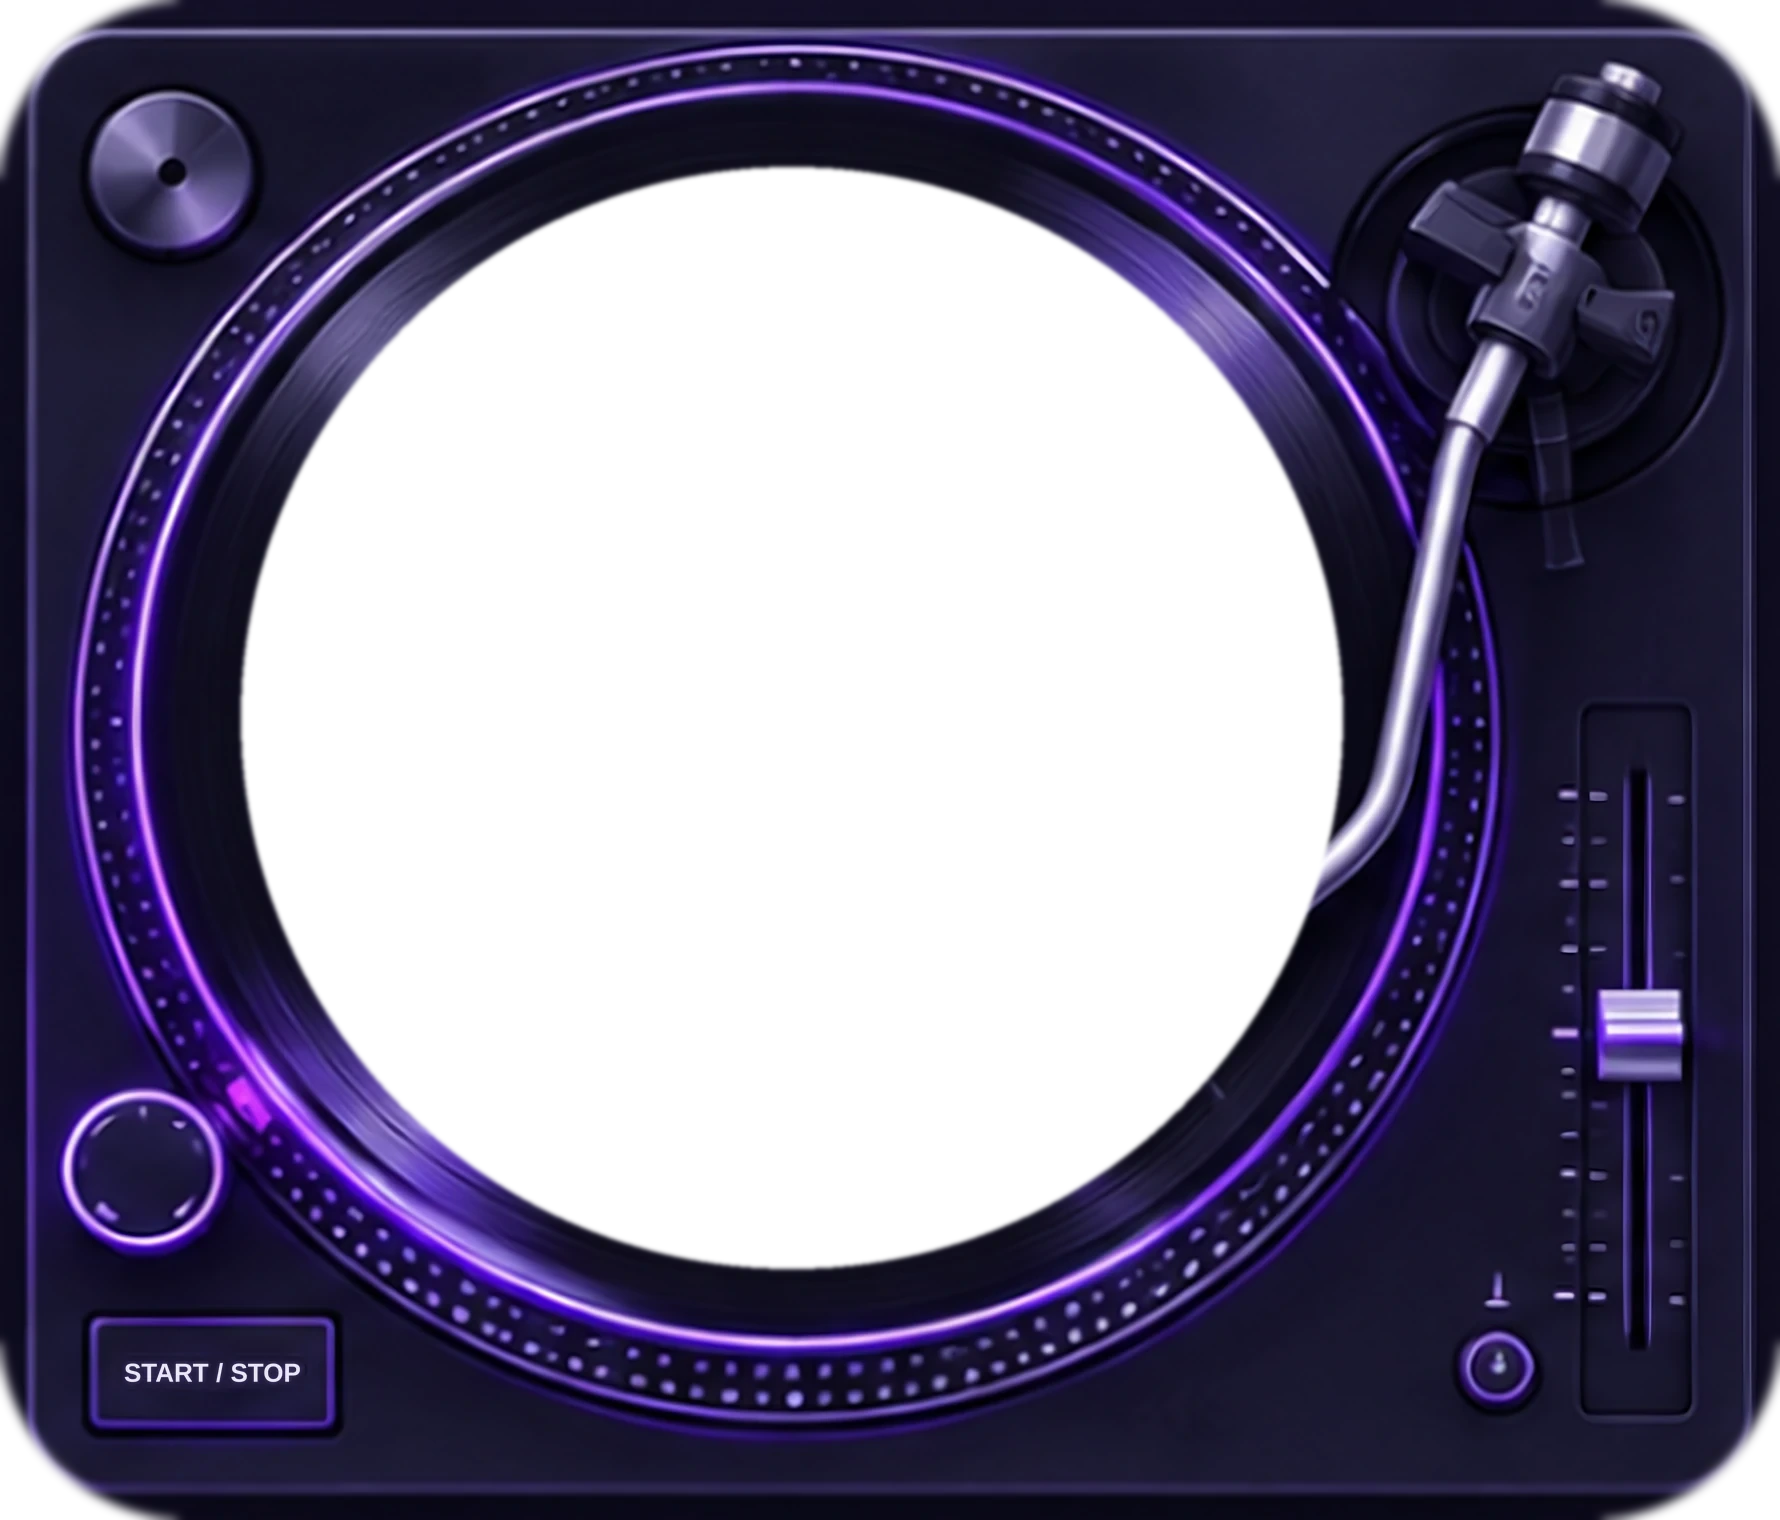
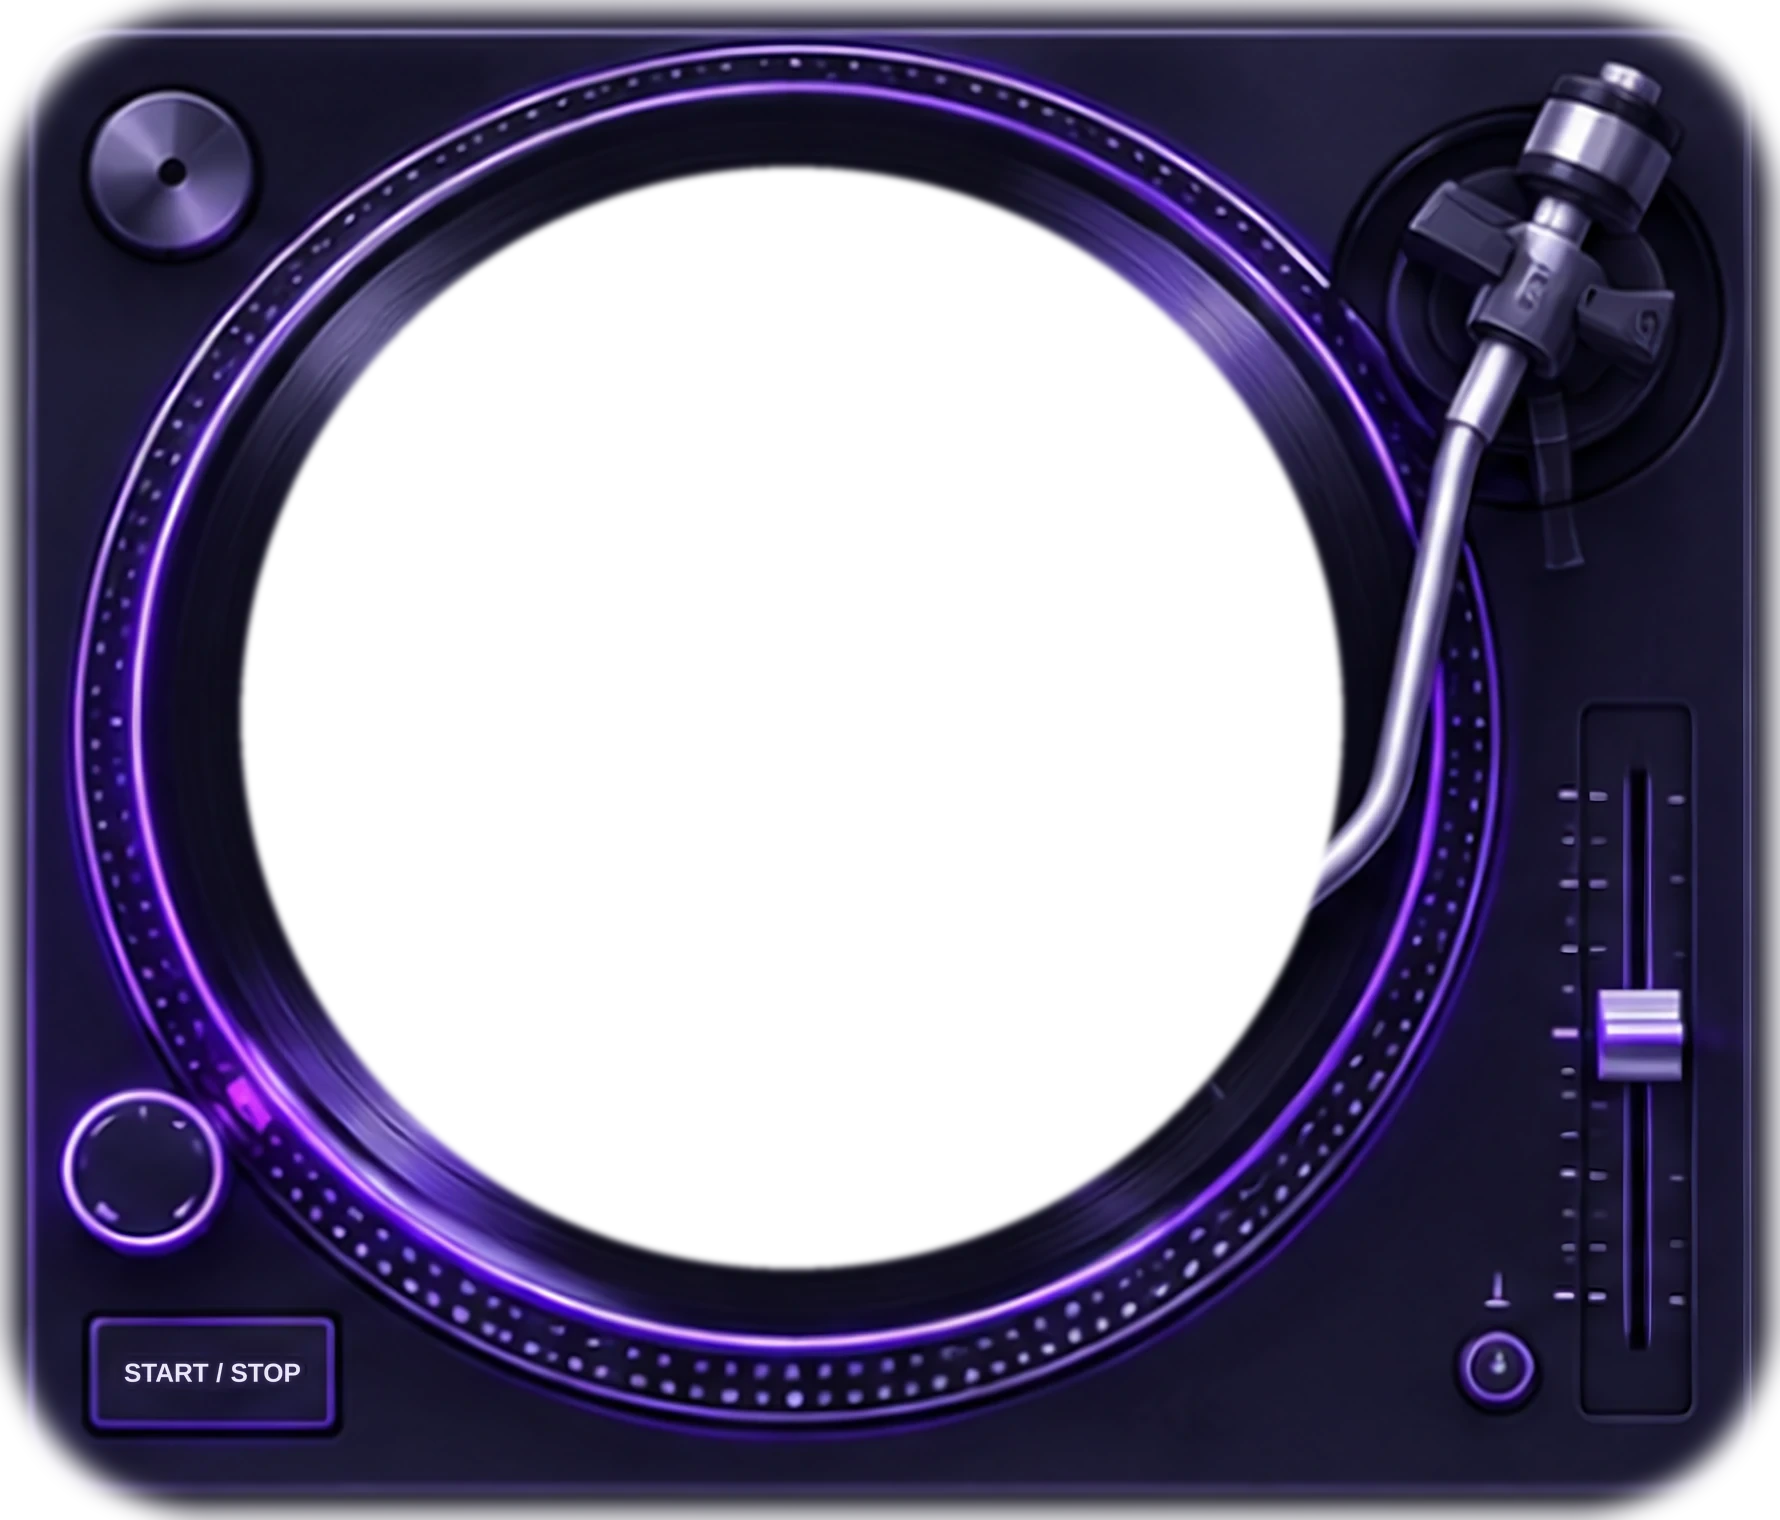
Soften turntable edge alpha to remove the bottom seam.
Feather the webp mask so the chassis fades into the striped background instead of cutting off.

Changed region(s): [[0.0, 0.0, 1.0, 1.0]]

diff --git a/src/components/DraftTurntable.css b/src/components/DraftTurntable.css
@@ -1,6 +1,6 @@
 /*
  * Draft 1 turntable with the spinning DsoLogo.
- * Webps have transparent corners outside the chassis curve so no square plate shows.
+ * Webps have soft transparent edges so no hard square/seam against the app bg.
  */
 
 .dco-draft {
@@ -13,7 +13,6 @@
   user-select: none;
   background: transparent;
   border: none;
-  border-radius: 0;
   box-shadow: none;
   overflow: visible;
 }
@@ -29,11 +28,11 @@
   background: transparent;
 }
 
-/* Thin purple edge glow along chassis alpha — no wide boxy wash */
+/* Thin purple edge only — follows soft webp alpha */
 .dco-draft__deck {
   filter:
-    drop-shadow(0 0 0.6px rgba(216, 180, 254, 0.9))
-    drop-shadow(0 0 3px rgba(167, 139, 250, 0.55));
+    drop-shadow(0 0 0.5px rgba(216, 180, 254, 0.85))
+    drop-shadow(0 0 2.5px rgba(167, 139, 250, 0.45));
 }
 
 .dco-draft__record {
@@ -66,7 +65,7 @@
 
 .dco-draft__arm {
   z-index: 3;
-  filter: drop-shadow(0.7cqw 1.4cqw 0.9cqw rgba(0, 0, 0, 0.45));
+  filter: drop-shadow(0.5cqw 1cqw 0.7cqw rgba(0, 0, 0, 0.4));
 }
 
 .dco-draft--sidebar {
